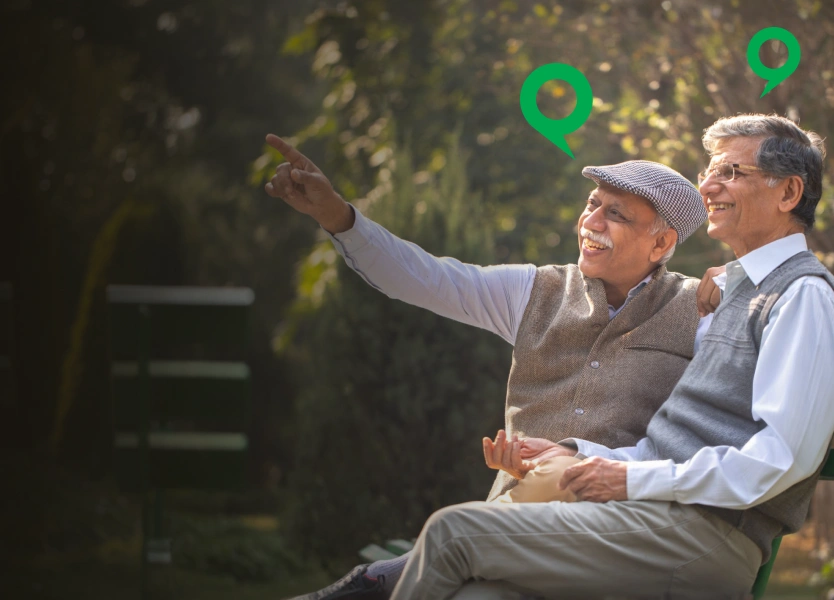
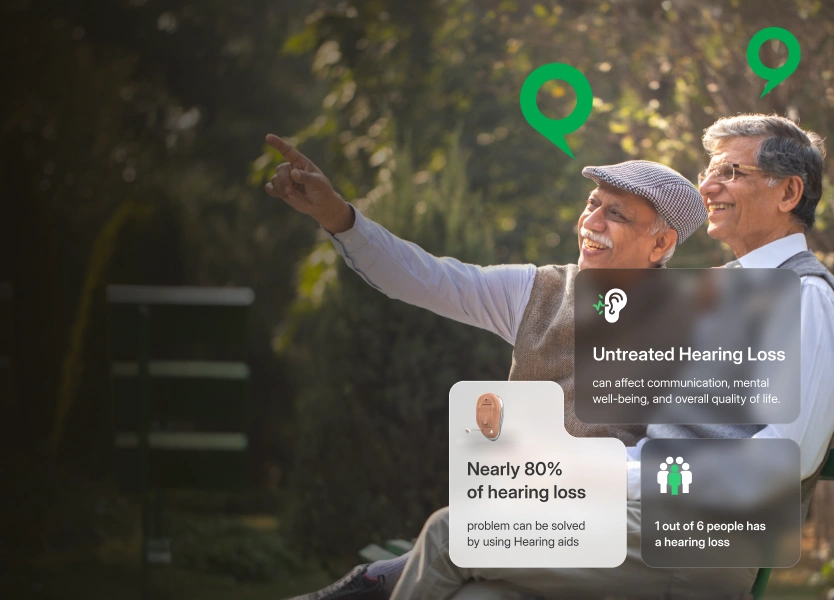
images changes on Hearing loss page

Changed region(s): [[0.53, 0.42, 0.9664, 0.96]]

diff --git a/assets/css/style.css b/assets/css/style.css
@@ -2656,6 +2656,18 @@ filter: grayscale(100%);
   object-fit: cover;
 }
 
+.page-banner > picture {
+  position: absolute;
+  inset: 0;
+  z-index: 0;
+  display: block;
+}
+
+.page-banner > picture .page-banner__bg {
+  position: absolute;
+  inset: 0;
+}
+
 .page-banner__overlay {
   position: absolute;
   inset: 0;